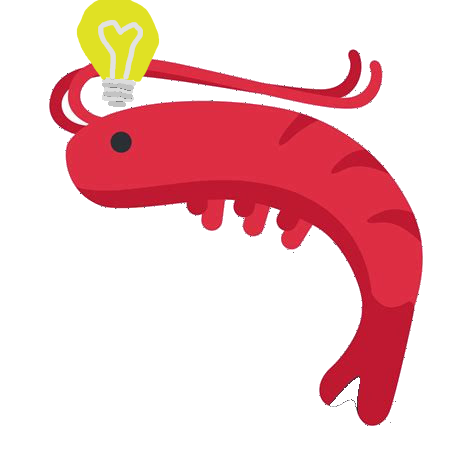
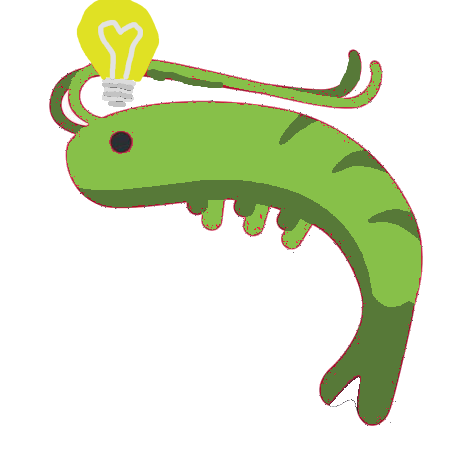
colour

Changed region(s): [[0.0886, 0.0886, 0.8861, 0.9156]]

diff --git a/static/js/shared/comparison.js b/static/js/shared/comparison.js
@@ -23,7 +23,7 @@ const Images={
     notequal: path+"shrimpincorrect"+png, 
     toolarge: path+"shrimptoobig"+png,
     toosmall: path+"shrimptoosmall"+png,
-    partialequal: path+"shrimpemoji"+png, 
+    partialequal: path+"shrimppartialequal"+png, 
     unknowncomparison: path+"shrimpunknown"+png,
     hiddencomparison: path+"shrimphide"+png,
 }
